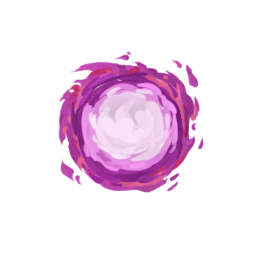
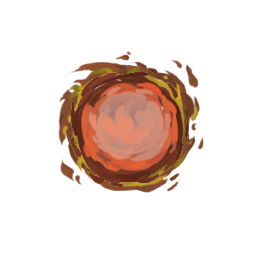
new orb ui

Changed region(s): [[0.2188, 0.1875, 0.8125, 0.75]]

diff --git a/src/main/java/kitsunemod/ui/EnergyOrbKitsune.java b/src/main/java/kitsunemod/ui/EnergyOrbKitsune.java
@@ -1,0 +1,163 @@
+package kitsunemod.ui;
+
+import basemod.abstracts.CustomEnergyOrb;
+import com.badlogic.gdx.Gdx;
+import com.badlogic.gdx.graphics.Color;
+import com.badlogic.gdx.graphics.GL20;
+import com.badlogic.gdx.graphics.Pixmap;
+import com.badlogic.gdx.graphics.Texture;
+import com.badlogic.gdx.graphics.g2d.SpriteBatch;
+import com.badlogic.gdx.graphics.g2d.TextureRegion;
+import com.badlogic.gdx.graphics.glutils.FrameBuffer;
+import com.megacrit.cardcrawl.core.Settings;
+import com.megacrit.cardcrawl.helpers.ImageMaster;
+
+public class EnergyOrbKitsune extends CustomEnergyOrb {
+    private static Texture KITSUNE_ORB_LAYER_1_LEFT = ImageMaster.loadImage("kitsunemod/images/char/orb/orange/layer1.png");
+    private static Texture KITSUNE_ORB_LAYER_1_RIGHT = ImageMaster.loadImage("kitsunemod/images/char/orb/purple/layer1.png");
+    private static Texture KITSUNE_ORB_LAYER_2_LEFT = ImageMaster.loadImage("kitsunemod/images/char/orb/orange/layer2.png");
+    private static Texture KITSUNE_ORB_LAYER_2_RIGHT = ImageMaster.loadImage("kitsunemod/images/char/orb/purple/layer2.png");
+    private static Texture KITSUNE_ORB_LAYER_3_LEFT = ImageMaster.loadImage("kitsunemod/images/char/orb/orange/layer3.png");
+    private static Texture KITSUNE_ORB_LAYER_3_RIGHT = ImageMaster.loadImage("kitsunemod/images/char/orb/purple/layer3.png");
+    private static Texture KITSUNE_ORB_LAYER_4_LEFT = ImageMaster.loadImage("kitsunemod/images/char/orb/orange/layer4.png");
+    private static Texture KITSUNE_ORB_LAYER_4_RIGHT = ImageMaster.loadImage("kitsunemod/images/char/orb/purple/layer4.png");
+    private static Texture KITSUNE_ORB_LAYER_5_LEFT = ImageMaster.loadImage("kitsunemod/images/char/orb/orange/layer5.png");
+    private static Texture KITSUNE_ORB_LAYER_5_RIGHT = ImageMaster.loadImage("kitsunemod/images/char/orb/purple/layer5.png");
+    private static Texture KITSUNE_ORB_LAYER_1D_LEFT = ImageMaster.loadImage("kitsunemod/images/char/orb/orange/layer1.png");
+    private static Texture KITSUNE_ORB_LAYER_1D_RIGHT = ImageMaster.loadImage("kitsunemod/images/char/orb/purple/layer1d.png");
+    private static Texture KITSUNE_ORB_LAYER_2D_LEFT = ImageMaster.loadImage("kitsunemod/images/char/orb/orange/layer2d.png");
+    private static Texture KITSUNE_ORB_LAYER_2D_RIGHT = ImageMaster.loadImage("kitsunemod/images/char/orb/purple/layer2d.png");
+    private static Texture KITSUNE_ORB_LAYER_3D_LEFT = ImageMaster.loadImage("kitsunemod/images/char/orb/orange/layer3d.png");
+    private static Texture KITSUNE_ORB_LAYER_3D_RIGHT = ImageMaster.loadImage("kitsunemod/images/char/orb/purple/layer3d.png");
+    private static Texture KITSUNE_ORB_LAYER_4D_LEFT = ImageMaster.loadImage("kitsunemod/images/char/orb/orange/layer4d.png");
+    private static Texture KITSUNE_ORB_LAYER_4D_RIGHT = ImageMaster.loadImage("kitsunemod/images/char/orb/purple/layer4d.png");
+    private static Texture KITSUNE_ORB_LAYER_5D_LEFT = ImageMaster.loadImage("kitsunemod/images/char/orb/orange/layer1d.png");
+    private static Texture KITSUNE_ORB_LAYER_5D_RIGHT = ImageMaster.loadImage("kitsunemod/images/char/orb/purple/layer1d.png");
+    private static Texture KITSUNE_ORB_MASK_LEFT = ImageMaster.loadImage("kitsunemod/images/char/orb/orange/mask.png");
+    private static Texture KITSUNE_ORB_MASK_RIGHT = ImageMaster.loadImage("kitsunemod/images/char/orb/purple/mask.png");
+    private static Texture KITSUNE_ORB_LAYER_6 = ImageMaster.loadImage("kitsunemod/images/char/orb/combined/layer6.png");
+    private static Texture KITSUNE_ORB_LAYER_7 = ImageMaster.loadImage("kitsunemod/images/char/orb/combined/layer7.png");
+    private static float ORB_IMG_SCALE = 1.15f * Settings.scale;
+
+    private FrameBuffer fbo1;
+    private FrameBuffer fbo2;
+    private float angle1Left;
+    private float angle1Right;
+    private float angle2Left;
+    private float angle2Right;
+    private float angle3Left;
+    private float angle3Right;
+    private float angle4Left;
+    private float angle4Right;
+    private float angle5Left;
+    private float angle5Right;
+
+    public EnergyOrbKitsune() {
+        super(null, null, null);
+        fbo1 = new FrameBuffer(Pixmap.Format.RGBA8888, Gdx.graphics.getWidth(), Gdx.graphics.getHeight(), false, false);
+        fbo2 = new FrameBuffer(Pixmap.Format.RGBA8888, Gdx.graphics.getWidth(), Gdx.graphics.getHeight(), false, false);
+
+        orbVfx = ImageMaster.loadImage("kitsunemod/images/char/orb/vfx.png");
+    }
+
+    @Override
+    public void updateOrb(int energyCount) {
+        float time = Gdx.graphics.getDeltaTime();
+        if (energyCount == 0) {
+            angle5Left += time * -5.0f;
+            angle4Left += time * 5.0f;
+            angle3Left += time * -8.0f;
+            angle2Left += time * 8.0f;
+            angle1Left += time * 72.0f;
+            angle5Right += time * 5.0f;
+            angle4Right += time * -5.0f;
+            angle3Right += time * 8.0f;
+            angle2Right += time * -8.0f;
+            angle1Right += time * -72.0f;
+        } else {
+            angle5Left += time * -20.0f;
+            angle4Left += time * 20.0f;
+            angle3Left += time * -40.0f;
+            angle2Left += time * 40.0f;
+            angle1Left += time * 360.0f;
+            angle5Right += time * 20.0f;
+            angle4Right += time * -20.0f;
+            angle3Right += time * 40.0f;
+            angle2Right += time * -40.0f;
+            angle1Right += time * -360.0f;
+        }
+    }
+
+    @Override
+    public void renderOrb(SpriteBatch sb, boolean enabled, float current_x, float current_y) {
+        sb.end();
+
+        //render left half in buffer
+        fbo1.begin();
+        Gdx.gl.glClearColor(0.0F, 0.0F, 0.0F, 0.0F);
+        Gdx.gl.glClear(GL20.GL_COLOR_BUFFER_BIT | GL20.GL_DEPTH_BUFFER_BIT);
+        Gdx.gl.glColorMask(true,true,true,true);
+        sb.begin();
+        sb.setColor(Color.WHITE);
+        sb.setBlendFunction(GL20.GL_SRC_ALPHA, GL20.GL_ONE_MINUS_SRC_ALPHA);
+        if (enabled) {
+            sb.draw(KITSUNE_ORB_LAYER_1_LEFT, current_x - 64.0F, current_y - 64.0F, 64.0F, 64.0F, 128.0F, 128.0F, ORB_IMG_SCALE, ORB_IMG_SCALE, angle1Left, 0, 0, 128, 128, false, false);
+            sb.draw(KITSUNE_ORB_LAYER_2_LEFT, current_x - 64.0F, current_y - 64.0F, 64.0F, 64.0F, 128.0F, 128.0F, ORB_IMG_SCALE, ORB_IMG_SCALE, angle2Left, 0, 0, 128, 128, false, false);
+            sb.draw(KITSUNE_ORB_LAYER_3_LEFT, current_x - 64.0F, current_y - 64.0F, 64.0F, 64.0F, 128.0F, 128.0F, ORB_IMG_SCALE, ORB_IMG_SCALE, angle3Left, 0, 0, 128, 128, false, false);
+            sb.draw(KITSUNE_ORB_LAYER_4_LEFT, current_x - 64.0F, current_y - 64.0F, 64.0F, 64.0F, 128.0F, 128.0F, ORB_IMG_SCALE, ORB_IMG_SCALE, angle4Left, 0, 0, 128, 128, false, false);
+            sb.draw(KITSUNE_ORB_LAYER_5_LEFT, current_x - 64.0F, current_y - 64.0F, 64.0F, 64.0F, 128.0F, 128.0F, ORB_IMG_SCALE, ORB_IMG_SCALE, angle5Left, 0, 0, 128, 128, false, false);
+        } else {
+            sb.draw(KITSUNE_ORB_LAYER_1D_LEFT, current_x - 64.0F, current_y - 64.0F, 64.0F, 64.0F, 128.0F, 128.0F, ORB_IMG_SCALE, ORB_IMG_SCALE, angle1Left, 0, 0, 128, 128, false, false);
+            sb.draw(KITSUNE_ORB_LAYER_2D_LEFT, current_x - 64.0F, current_y - 64.0F, 64.0F, 64.0F, 128.0F, 128.0F, ORB_IMG_SCALE, ORB_IMG_SCALE, angle2Left, 0, 0, 128, 128, false, false);
+            sb.draw(KITSUNE_ORB_LAYER_3D_LEFT, current_x - 64.0F, current_y - 64.0F, 64.0F, 64.0F, 128.0F, 128.0F, ORB_IMG_SCALE, ORB_IMG_SCALE, angle3Left, 0, 0, 128, 128, false, false);
+            sb.draw(KITSUNE_ORB_LAYER_4D_LEFT, current_x - 64.0F, current_y - 64.0F, 64.0F, 64.0F, 128.0F, 128.0F, ORB_IMG_SCALE, ORB_IMG_SCALE, angle4Left, 0, 0, 128, 128, false, false);
+            sb.draw(KITSUNE_ORB_LAYER_5D_LEFT, current_x - 64.0F, current_y - 64.0F, 64.0F, 64.0F, 128.0F, 128.0F, ORB_IMG_SCALE, ORB_IMG_SCALE, angle5Left, 0, 0, 128, 128, false, false);
+        }
+        sb.setBlendFunction(0, GL20.GL_SRC_ALPHA);
+        sb.setColor(new Color(1, 1, 1, 1));
+        sb.draw(KITSUNE_ORB_MASK_LEFT, current_x - 64.0F, current_y - 64.0F, 64.0F, 64.0F, 128.0F, 128.0F, ORB_IMG_SCALE, ORB_IMG_SCALE, 0.0F, 0, 0, 128, 128, false, false);
+        sb.setBlendFunction(GL20.GL_SRC_ALPHA, GL20.GL_ONE_MINUS_SRC_ALPHA);
+        fbo1.end();
+        sb.end();
+        TextureRegion leftHalf = new TextureRegion(fbo1.getColorBufferTexture());
+        leftHalf.flip(false, true);
+
+        //render right half in buffer
+        fbo2.begin();
+        Gdx.gl.glClearColor(0.0F, 0.0F, 0.0F, 0.0F);
+        Gdx.gl.glClear(GL20.GL_COLOR_BUFFER_BIT | GL20.GL_DEPTH_BUFFER_BIT);
+        Gdx.gl.glColorMask(true,true,true,true);
+        sb.begin();
+        sb.setColor(Color.WHITE);
+        sb.setBlendFunction(GL20.GL_SRC_ALPHA, GL20.GL_ONE_MINUS_SRC_ALPHA);
+        if (enabled) {
+            sb.draw(KITSUNE_ORB_LAYER_1_RIGHT, current_x - 64.0F, current_y - 64.0F, 64.0F, 64.0F, 128.0F, 128.0F, ORB_IMG_SCALE, ORB_IMG_SCALE, angle1Right, 0, 0, 128, 128, false, false);
+            sb.draw(KITSUNE_ORB_LAYER_2_RIGHT, current_x - 64.0F, current_y - 64.0F, 64.0F, 64.0F, 128.0F, 128.0F, ORB_IMG_SCALE, ORB_IMG_SCALE, angle2Right, 0, 0, 128, 128, false, false);
+            sb.draw(KITSUNE_ORB_LAYER_3_RIGHT, current_x - 64.0F, current_y - 64.0F, 64.0F, 64.0F, 128.0F, 128.0F, ORB_IMG_SCALE, ORB_IMG_SCALE, angle3Right, 0, 0, 128, 128, false, false);
+            sb.draw(KITSUNE_ORB_LAYER_4_RIGHT, current_x - 64.0F, current_y - 64.0F, 64.0F, 64.0F, 128.0F, 128.0F, ORB_IMG_SCALE, ORB_IMG_SCALE, angle4Right, 0, 0, 128, 128, false, false);
+            sb.draw(KITSUNE_ORB_LAYER_5_RIGHT, current_x - 64.0F, current_y - 64.0F, 64.0F, 64.0F, 128.0F, 128.0F, ORB_IMG_SCALE, ORB_IMG_SCALE, angle5Right, 0, 0, 128, 128, false, false);
+        } else {
+            sb.draw(KITSUNE_ORB_LAYER_1D_RIGHT, current_x - 64.0F, current_y - 64.0F, 64.0F, 64.0F, 128.0F, 128.0F, ORB_IMG_SCALE, ORB_IMG_SCALE, angle1Right, 0, 0, 128, 128, false, false);
+            sb.draw(KITSUNE_ORB_LAYER_2D_RIGHT, current_x - 64.0F, current_y - 64.0F, 64.0F, 64.0F, 128.0F, 128.0F, ORB_IMG_SCALE, ORB_IMG_SCALE, angle2Right, 0, 0, 128, 128, false, false);
+            sb.draw(KITSUNE_ORB_LAYER_3D_RIGHT, current_x - 64.0F, current_y - 64.0F, 64.0F, 64.0F, 128.0F, 128.0F, ORB_IMG_SCALE, ORB_IMG_SCALE, angle3Right, 0, 0, 128, 128, false, false);
+            sb.draw(KITSUNE_ORB_LAYER_4D_RIGHT, current_x - 64.0F, current_y - 64.0F, 64.0F, 64.0F, 128.0F, 128.0F, ORB_IMG_SCALE, ORB_IMG_SCALE, angle4Right, 0, 0, 128, 128, false, false);
+            sb.draw(KITSUNE_ORB_LAYER_5D_RIGHT, current_x - 64.0F, current_y - 64.0F, 64.0F, 64.0F, 128.0F, 128.0F, ORB_IMG_SCALE, ORB_IMG_SCALE, angle5Right, 0, 0, 128, 128, false, false);
+        }
+        sb.setBlendFunction(0, GL20.GL_SRC_ALPHA);
+        sb.setColor(new Color(1,1,1,1));
+        sb.draw(KITSUNE_ORB_MASK_RIGHT, current_x - 64.0F, current_y - 64.0F, 64.0F, 64.0F, 128.0F, 128.0F, ORB_IMG_SCALE, ORB_IMG_SCALE, 0.0F, 0, 0, 128, 128, false, false);
+        sb.setBlendFunction(GL20.GL_SRC_ALPHA, GL20.GL_ONE_MINUS_SRC_ALPHA);
+        fbo2.end();
+        sb.end();
+        TextureRegion rightHalf = new TextureRegion(fbo2.getColorBufferTexture());
+        rightHalf.flip(false, true);
+
+        //render whole
+        sb.begin();
+        sb.setColor(Color.WHITE);
+        sb.draw(leftHalf, -Settings.VERT_LETTERBOX_AMT, -Settings.HORIZ_LETTERBOX_AMT);
+        sb.draw(rightHalf, -Settings.VERT_LETTERBOX_AMT, -Settings.HORIZ_LETTERBOX_AMT);
+        sb.draw(KITSUNE_ORB_LAYER_6, current_x - 64.0F, current_y - 64.0F, 64.0F, 64.0F, 128.0F, 128.0F, ORB_IMG_SCALE, ORB_IMG_SCALE, 0.0F, 0, 0, 128, 128, false, false);
+        sb.draw(KITSUNE_ORB_LAYER_7, current_x - 64.0F, current_y - 64.0F, 64.0F, 64.0F, 128.0F, 128.0F, ORB_IMG_SCALE, ORB_IMG_SCALE, 0.0F, 0, 0, 128, 128, false, false);
+    }
+}

diff --git a/src/main/java/kitsunemod/character/KitsuneCharacter.java b/src/main/java/kitsunemod/character/KitsuneCharacter.java
@@ -4,6 +4,7 @@ import basemod.abstracts.CustomPlayer;
 import com.badlogic.gdx.graphics.Color;
 import com.badlogic.gdx.graphics.Texture;
 import com.badlogic.gdx.graphics.g2d.BitmapFont;
+import com.badlogic.gdx.graphics.g2d.SpriteBatch;
 import com.badlogic.gdx.math.MathUtils;
 import com.esotericsoftware.spine.AnimationState;
 import com.esotericsoftware.spine.Slot;
@@ -33,6 +34,7 @@ import kitsunemod.patches.KitsuneEnum;
 import kitsunemod.powers.KitsuneShapePower;
 import kitsunemod.relics.KitsuneRelic;
 import kitsunemod.relics.WornPearl;
+import kitsunemod.ui.EnergyOrbKitsune;
 
 import java.util.ArrayList;
 import java.util.HashMap;
@@ -53,22 +55,9 @@ public class KitsuneCharacter extends CustomPlayer {
     private AnimationState.TrackEntry animationTrackEntry;
     private HashMap<String, Slot> animationSlots = new HashMap<>();
     private HashMap<String, Attachment> storedAssets = new HashMap<>();
-    public static final String[] orbTextures = {
-            "kitsunemod/images/char/orb/layer1.png",
-            "kitsunemod/images/char/orb/layer2.png",
-            "kitsunemod/images/char/orb/layer3.png",
-            "kitsunemod/images/char/orb/layer4.png",
-            "kitsunemod/images/char/orb/layer5.png",
-            "kitsunemod/images/char/orb/layer6.png",
-            "kitsunemod/images/char/orb/layer1d.png",
-            "kitsunemod/images/char/orb/layer2d.png",
-            "kitsunemod/images/char/orb/layer3d.png",
-            "kitsunemod/images/char/orb/layer4d.png",
-            "kitsunemod/images/char/orb/layer5d.png"
-    };
 
     public KitsuneCharacter(String name) {
-        super(name, KitsuneEnum.KITSUNE_CLASS, orbTextures, "kitsunemod/images/char/orb/vfx.png", null, null, null);
+        super(name, KitsuneEnum.KITSUNE_CLASS, new EnergyOrbKitsune(), null, null);
 
         dialogX = drawX + DIALOG_X_ADJUSTMENT * Settings.scale;
         dialogY = drawY + DIALOG_Y_ADJUSTMENT * Settings.scale;
